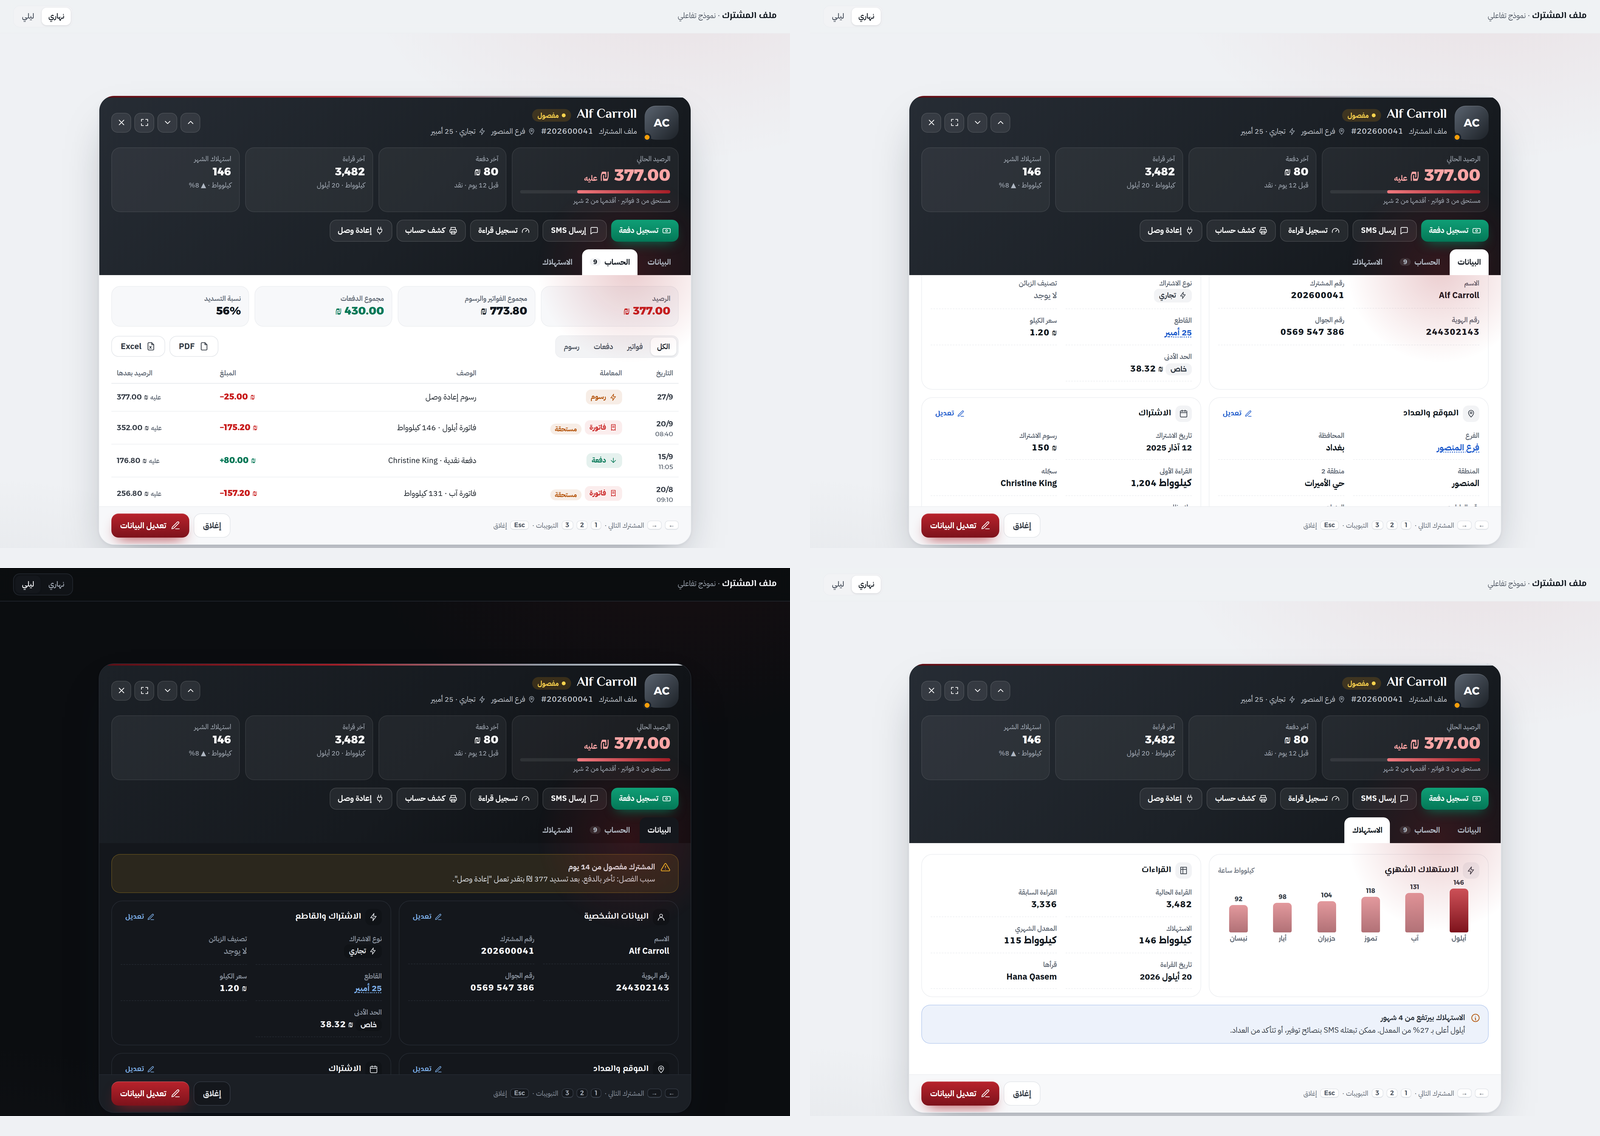
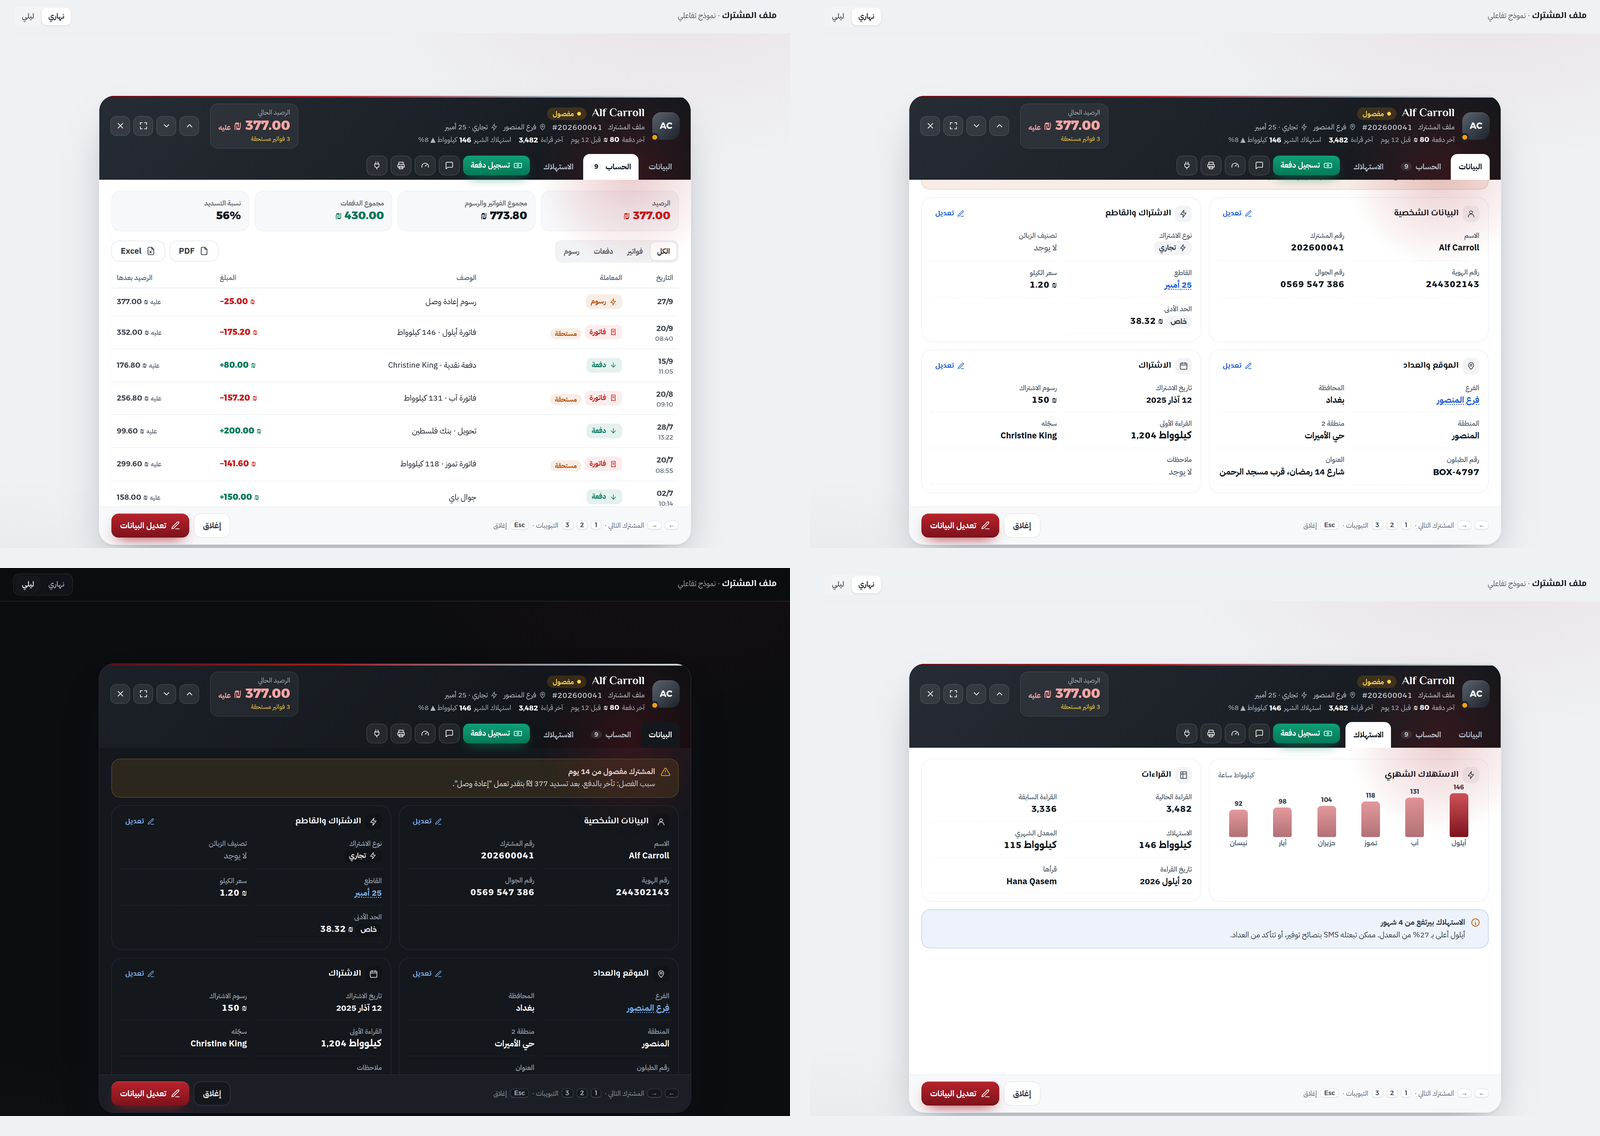
Subscriber profile: compact dark header
Claude-Session: https://claude.ai/code/session_01XCSA7vHgQhRJfaWcSo7nax

diff --git a/AF-PowerCollect-ملف-المشترك.html b/AF-PowerCollect-ملف-المشترك.html
@@ -363,6 +363,25 @@ tbody tr:hover .split,tbody tr.kb .split{background:linear-gradient(180deg,var(-
 .foot2 .acts{margin-inline-start:auto;display:flex;gap:8px}
 @media (max-width:860px){.bal{grid-template-columns:1fr 1fr}.bal .main{grid-column:1/-1}.cols{grid-template-columns:1fr}.acct-top{grid-template-columns:1fr 1fr}.col-by{display:none}}
 @media (max-width:560px){.stage{padding:64px 0 0;place-items:end center}.pm{height:calc(100vh - 64px);border-radius:24px 24px 0 0}.pm{overflow:auto}.pb{overflow:visible;flex:none}.foot2{position:sticky;bottom:0}.tools{position:absolute;top:0;left:0}.tools #prev,.tools #next,.tools #max{display:none}.big-av{width:50px;height:50px;font-size:16px;border-radius:16px}.who b{font-size:20px}.bal{grid-template-columns:repeat(3,1fr);gap:6px}.bal .main{grid-column:1/-1}.bal .main b{font-size:26px}.bal>div{padding:8px 10px}.bal b{font-size:16px}.bal>div:not(.main) small:last-child{display:none}.kv{grid-template-columns:1fr}.qa button span{display:none}.qa .pay span{display:inline}.foot2 .kb{display:none}.stmt .col-run{display:none}.tabs2 button{padding:10px 8px;font-size:13.5px}}
+
+.ph2{padding:14px 20px 0}
+.big-av{width:50px;height:50px;border-radius:16px;font-size:16px}
+.who b{font-size:21px}
+.who small{margin-top:2px;font-size:13px}
+.who .facts2{color:#aeb6c1;font-size:12.5px;gap:14px}
+.who .facts2 b{display:inline;font:700 13px Alexandria;color:#fff}
+.balx{margin-inline-start:auto;text-align:start;background:#ffffff0d;border:1px solid #ffffff17;border-radius:14px;padding:6px 14px}
+.balx small{display:block;color:#aeb6c1;font-size:12px}
+.balx b{font:800 24px/1.2 Alexandria;color:#fca5a5}
+.balx b em{font:700 13px 'IBM Plex Sans Arabic';font-style:normal;margin-inline-start:5px}
+.balx span{display:block;font-size:11.5px;color:#fcd34d}
+.tools{margin-inline-start:6px}
+.row2{position:relative;display:flex;align-items:flex-end;gap:10px;margin-top:10px}
+.row2 .tabs2{margin:0}
+.row2 .qa{margin:0 0 8px auto;flex-wrap:nowrap;gap:6px}
+.row2 .qa button{height:36px;padding:0 10px;border-radius:11px}
+.row2 .qa .pay{padding:0 14px}
+@media (max-width:760px){.row2{flex-direction:column-reverse;align-items:stretch}.row2 .qa{margin:0}.row2 .qa .pay{flex:1;justify-content:center}.balx{order:5;width:100%;margin:8px 0 0}.who .facts2{display:none}}
 </style>
 </head>
 <body>
@@ -376,7 +395,9 @@ tbody tr:hover .split,tbody tr.kb .split{background:linear-gradient(180deg,var(-
     <div class="top">
       <span class="big-av">AC<i style="background:#f59e0b"></i></span>
       <div class="who"><b id="nm">Alf Carroll <span class="stp susp"><i></i>مفصول</span></b>
-        <small><span>ملف المشترك</span><span class="num">#202600041</span><span><svg class="i" viewBox="0 0 24 24" fill="none" stroke="currentColor" stroke-width="1.8" stroke-linecap="round" stroke-linejoin="round"><path d="M12 21s-7-6.2-7-11.5a7 7 0 0 1 14 0C19 14.8 12 21 12 21"/><circle cx="12" cy="9.5" r="2.5"/></svg>فرع المنصور</span><span><svg class="i" viewBox="0 0 24 24" fill="none" stroke="currentColor" stroke-width="1.8" stroke-linecap="round" stroke-linejoin="round"><path d="M13 2 4 14h7l-1 8 9-12h-7z"/></svg>تجاري · 25 أمبير</span></small></div>
+        <small><span>ملف المشترك</span><span class="num">#202600041</span><span><svg class="i" viewBox="0 0 24 24" fill="none" stroke="currentColor" stroke-width="1.8" stroke-linecap="round" stroke-linejoin="round"><path d="M12 21s-7-6.2-7-11.5a7 7 0 0 1 14 0C19 14.8 12 21 12 21"/><circle cx="12" cy="9.5" r="2.5"/></svg>فرع المنصور</span><span><svg class="i" viewBox="0 0 24 24" fill="none" stroke="currentColor" stroke-width="1.8" stroke-linecap="round" stroke-linejoin="round"><path d="M13 2 4 14h7l-1 8 9-12h-7z"/></svg>تجاري · 25 أمبير</span></small>
+        <small class="facts2"><span>آخر دفعة <b class="num">80 ₪</b> قبل 12 يوم</span><span>آخر قراءة <b class="num">3,482</b></span><span>استهلاك الشهر <b class="num">146</b> كيلوواط ▲ 8%</span></small></div>
+      <div class="balx"><small>الرصيد الحالي</small><b class="num">377.00 ₪<em>عليه</em></b><span>3 فواتير مستحقة</span></div>
       <div class="tools">
         <button class="ib" id="prev" aria-label="المشترك السابق" title="السابق"><svg class="i" viewBox="0 0 24 24" fill="none" stroke="currentColor" stroke-width="1.8" stroke-linecap="round" stroke-linejoin="round"><path d="M18 15l-6-6-6 6"/></svg></button>
         <button class="ib" id="next" aria-label="المشترك التالي" title="التالي"><svg class="i" viewBox="0 0 24 24" fill="none" stroke="currentColor" stroke-width="1.8" stroke-linecap="round" stroke-linejoin="round"><path d="M6 9l6 6 6-6"/></svg></button>
@@ -384,23 +405,19 @@ tbody tr:hover .split,tbody tr.kb .split{background:linear-gradient(180deg,var(-
         <button class="ib" id="close" aria-label="إغلاق" title="إغلاق (Esc)"><svg class="i" viewBox="0 0 24 24" fill="none" stroke="currentColor" stroke-width="1.8" stroke-linecap="round" stroke-linejoin="round"><path d="M6 6l12 12M18 6L6 18"/></svg></button>
       </div>
     </div>
-    <div class="bal">
-      <div class="main"><small>الرصيد الحالي</small><b class="num">377.00 ₪<em>عليه</em></b><div class="p"><i style="width:62%"></i></div><span>مستحق من 3 فواتير · أقدمها من 2 شهر</span></div>
-      <div><small>آخر دفعة</small><b class="num">80 ₪</b><small>قبل 12 يوم · نقد</small></div>
-      <div><small>آخر قراءة</small><b class="num">3,482</b><small>كيلوواط · 20 أيلول</small></div>
-      <div><small>استهلاك الشهر</small><b class="num">146</b><small>كيلوواط · ▲ 8%</small></div>
-    </div>
-    <div class="qa">
-      <button class="pay" data-a="تسجيل دفعة"><svg class="i" viewBox="0 0 24 24" fill="none" stroke="currentColor" stroke-width="1.8" stroke-linecap="round" stroke-linejoin="round"><rect x="2" y="6" width="20" height="12" rx="2"/><circle cx="12" cy="12" r="2.5"/></svg><span>تسجيل دفعة</span></button>
-      <button data-a="إرسال SMS"><svg class="i" viewBox="0 0 24 24" fill="none" stroke="currentColor" stroke-width="1.8" stroke-linecap="round" stroke-linejoin="round"><path d="M21 15a2 2 0 0 1-2 2H8l-5 4V5a2 2 0 0 1 2-2h14a2 2 0 0 1 2 2z"/></svg><span>إرسال SMS</span></button>
-      <button data-a="تسجيل قراءة"><svg class="i" viewBox="0 0 24 24" fill="none" stroke="currentColor" stroke-width="1.8" stroke-linecap="round" stroke-linejoin="round"><path d="M12 14l4-4"/><path d="M3.3 17a9 9 0 1 1 17.4 0"/></svg><span>تسجيل قراءة</span></button>
-      <button data-a="طباعة كشف حساب"><svg class="i" viewBox="0 0 24 24" fill="none" stroke="currentColor" stroke-width="1.8" stroke-linecap="round" stroke-linejoin="round"><path d="M6 9V3h12v6"/><rect x="3" y="9" width="18" height="8" rx="2"/><path d="M7 14h10v7H7z"/></svg><span>كشف حساب</span></button>
-      <button data-a="إعادة وصل"><svg class="i" viewBox="0 0 24 24" fill="none" stroke="currentColor" stroke-width="1.8" stroke-linecap="round" stroke-linejoin="round"><path d="M9 2v6M15 2v6M6 8h12v4a6 6 0 0 1-12 0zM12 18v4"/></svg><span>إعادة وصل</span></button>
-    </div>
-    <div class="tabs2" role="tablist">
-      <button role="tab" data-t="data" aria-selected="true">البيانات</button>
-      <button role="tab" data-t="acct" aria-selected="false">الحساب <span>9</span></button>
-      <button role="tab" data-t="use" aria-selected="false">الاستهلاك</button>
+    <div class="row2">
+      <div class="tabs2" role="tablist">
+        <button role="tab" data-t="data" aria-selected="true">البيانات</button>
+        <button role="tab" data-t="acct" aria-selected="false">الحساب <span>9</span></button>
+        <button role="tab" data-t="use" aria-selected="false">الاستهلاك</button>
+      </div>
+      <div class="qa">
+        <button class="pay" data-a="تسجيل دفعة"><svg class="i" viewBox="0 0 24 24" fill="none" stroke="currentColor" stroke-width="1.8" stroke-linecap="round" stroke-linejoin="round"><rect x="2" y="6" width="20" height="12" rx="2"/><circle cx="12" cy="12" r="2.5"/></svg><span>تسجيل دفعة</span></button>
+        <button data-a="إرسال SMS" title="إرسال SMS" aria-label="إرسال SMS"><svg class="i" viewBox="0 0 24 24" fill="none" stroke="currentColor" stroke-width="1.8" stroke-linecap="round" stroke-linejoin="round"><path d="M21 15a2 2 0 0 1-2 2H8l-5 4V5a2 2 0 0 1 2-2h14a2 2 0 0 1 2 2z"/></svg></button>
+        <button data-a="تسجيل قراءة" title="تسجيل قراءة" aria-label="تسجيل قراءة"><svg class="i" viewBox="0 0 24 24" fill="none" stroke="currentColor" stroke-width="1.8" stroke-linecap="round" stroke-linejoin="round"><path d="M12 14l4-4"/><path d="M3.3 17a9 9 0 1 1 17.4 0"/></svg></button>
+        <button data-a="طباعة كشف حساب" title="كشف حساب" aria-label="كشف حساب"><svg class="i" viewBox="0 0 24 24" fill="none" stroke="currentColor" stroke-width="1.8" stroke-linecap="round" stroke-linejoin="round"><path d="M6 9V3h12v6"/><rect x="3" y="9" width="18" height="8" rx="2"/><path d="M7 14h10v7H7z"/></svg></button>
+        <button data-a="إعادة وصل" title="إعادة وصل" aria-label="إعادة وصل"><svg class="i" viewBox="0 0 24 24" fill="none" stroke="currentColor" stroke-width="1.8" stroke-linecap="round" stroke-linejoin="round"><path d="M9 2v6M15 2v6M6 8h12v4a6 6 0 0 1-12 0zM12 18v4"/></svg></button>
+      </div>
     </div>
   </header>
 
